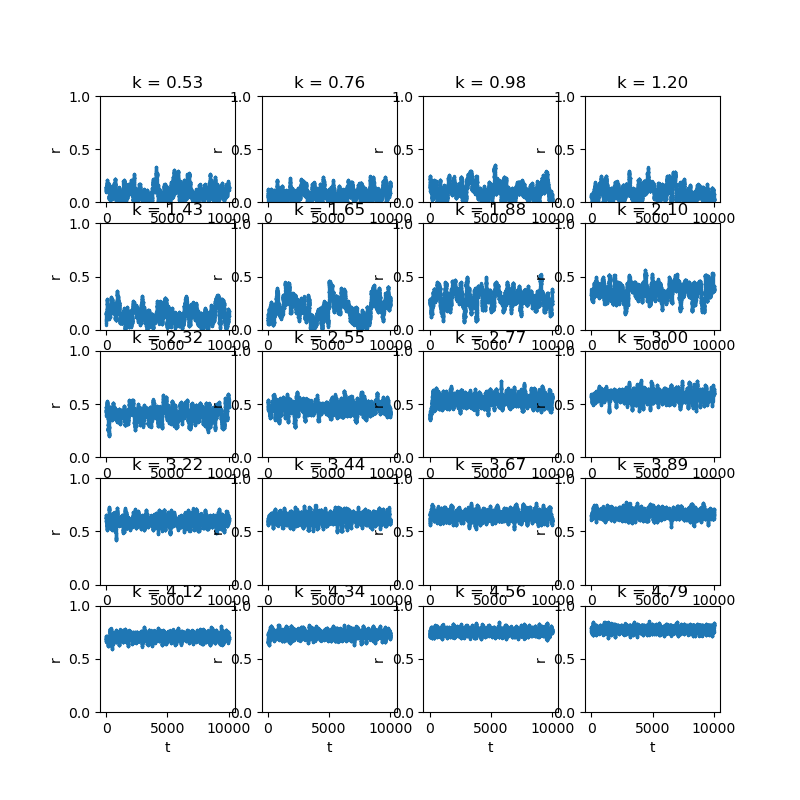
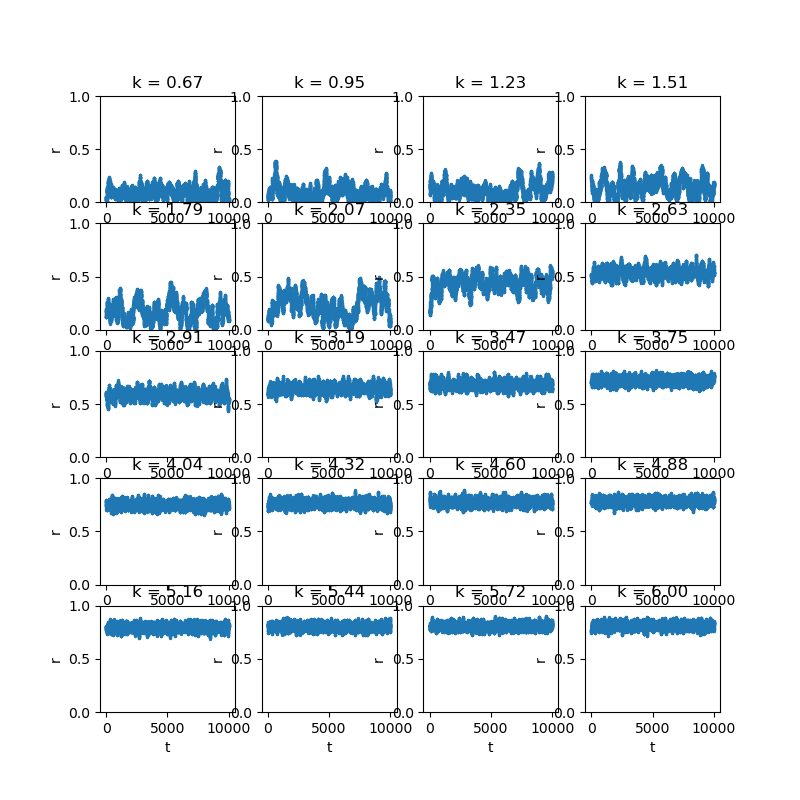
beginning numerical integration of implicit integral

diff --git a/kuramoto_numerical.py b/kuramoto_numerical.py
@@ -21,7 +21,7 @@ def prob_distribution(omega, sigma:float=sigma, dist:str = "cauchy"):
 g_zero = prob_distribution(0, dist=distr)
 
 k_critical = 2 / (np.pi * g_zero) #this is the theoretical k critical value for any distribution
-print(k_critical)
+print(f"k_critical = {k_critical}")
 kmin = k_critical/3
 kmax = 3*k_critical
 print(f"kmin, kmax = ({kmin}, {kmax})")
@@ -59,12 +59,6 @@ for i, k in enumerate(kvalues):
         theta = np.mod(theta, 2 * np.pi)
         r = np.abs((1/len(theta)) * np.sum(np.exp(theta * 1j)))
         rs.append(r)
-    #theta = np.mod(theta, 2 * np.pi)
-    #r = np.abs((1/len(theta)) * np.sum(np.exp(theta * 1j))) #the absolute value is the modulus
-    #ls_r_q10[i] = np.percentile(r, 10)
-    #ls_r_q50[i] = np.percentile(r, 50)
-    #ls_r_q90[i] = np.percentile(r, 90)
-    #theta = theta[:, -1]
     #for plotting:
     ax = axes[i]  
     ax.scatter(t_range, np.array(rs), s=2)
@@ -74,7 +68,7 @@ for i, k in enumerate(kvalues):
     ax.set_xlabel("t")
     all_rs.append(rs)
 
-plt.savefig("20plots.png")
+#plt.savefig("20plots.png")
 plt.close()
 
 means = []
@@ -85,8 +79,14 @@ for i, k in enumerate(kvalues):
     means.append(mean_r)
     stds.append(std_r)
 
-print(means)
+print(np.mean(all_rs[i][-300:]))
 print(stds)
+
+
+#if we were to solve the function numerically, we have the 1 = integral, so integral - 1 = 0 and we can use newtons method
+
+def integral(theta, k, r):
+    return ((np.cos(theta))**2) *  prob_distribution(k*r*np.sin(theta), sigma = sigma, dist = distr)
 
 
 #this is solving it analytically
@@ -112,22 +112,22 @@ elif distr == "normal":
             to_plot.append(0)
         else:
             mu = (k - k_critical)/k_critical
-            r = np.sqrt(16/(np.pi*(k_critical**3))) * np.sqrt(mu / (-1*normal_second_derivative(0)))
+            g0 = -1 / (sigma**3 * np.sqrt(2 * np.pi)) #because we are already evaluating at omega = 0
+            #r = np.sqrt(16/(np.pi*(k_critical**3))) * np.sqrt(mu / (-1*normal_second_derivative(0)))
+            r =  np.sqrt(mu / (-1*g0)) * np.sqrt(16 / np.pi * (k_critical**3))
+            r = np.minimum(r, 1)
             to_plot.append(r)
     arr_to_plot = np.array(to_plot)
 
 
-#if we were to solve the function numerically, we have the 1 = integral, so integral - 1 = 0 and we can use newtons method
-def distribution(w):
-    pass
-def integral(theta, k, r):
-    return ((np.cos(theta))**2) *  distribution(k*r*np.sin(theta))
     
 fig, ax_bifurcation = plt.subplots(1, 1, figsize=(12, 6))
 ax_bifurcation.plot(kvalues, arr_to_plot, label = "Theoretical")
 #ax_bifurcation.scatter(kvalues, np.array(means), label = "Empirical", color = "red")
 ax_bifurcation.errorbar(kvalues, np.array(means), yerr=[stds, stds], label = "Empirical", color = "red", fmt = "o")
 ax_bifurcation.set_title(f"Empirical and Theoretical r Versus k for {distr.capitalize()} Distribution")
+ax_bifurcation.set_xlabel("k")
+ax_bifurcation.set_ylabel("r")
 
 #we now need to identify the approximate value of kc and compare it with the theoretical value
 
